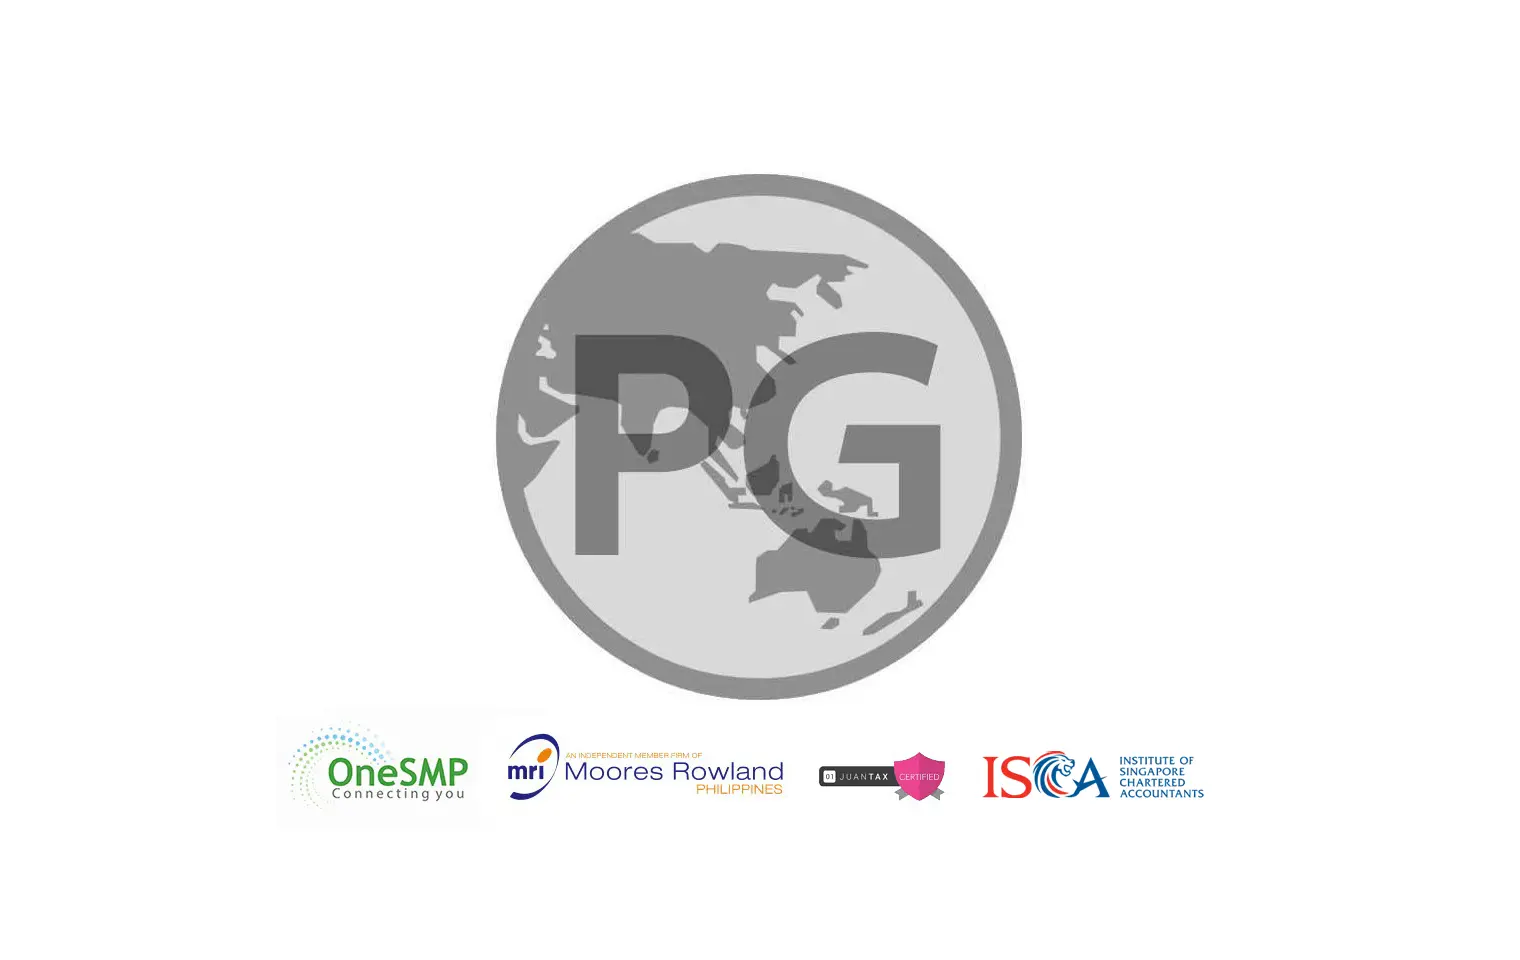
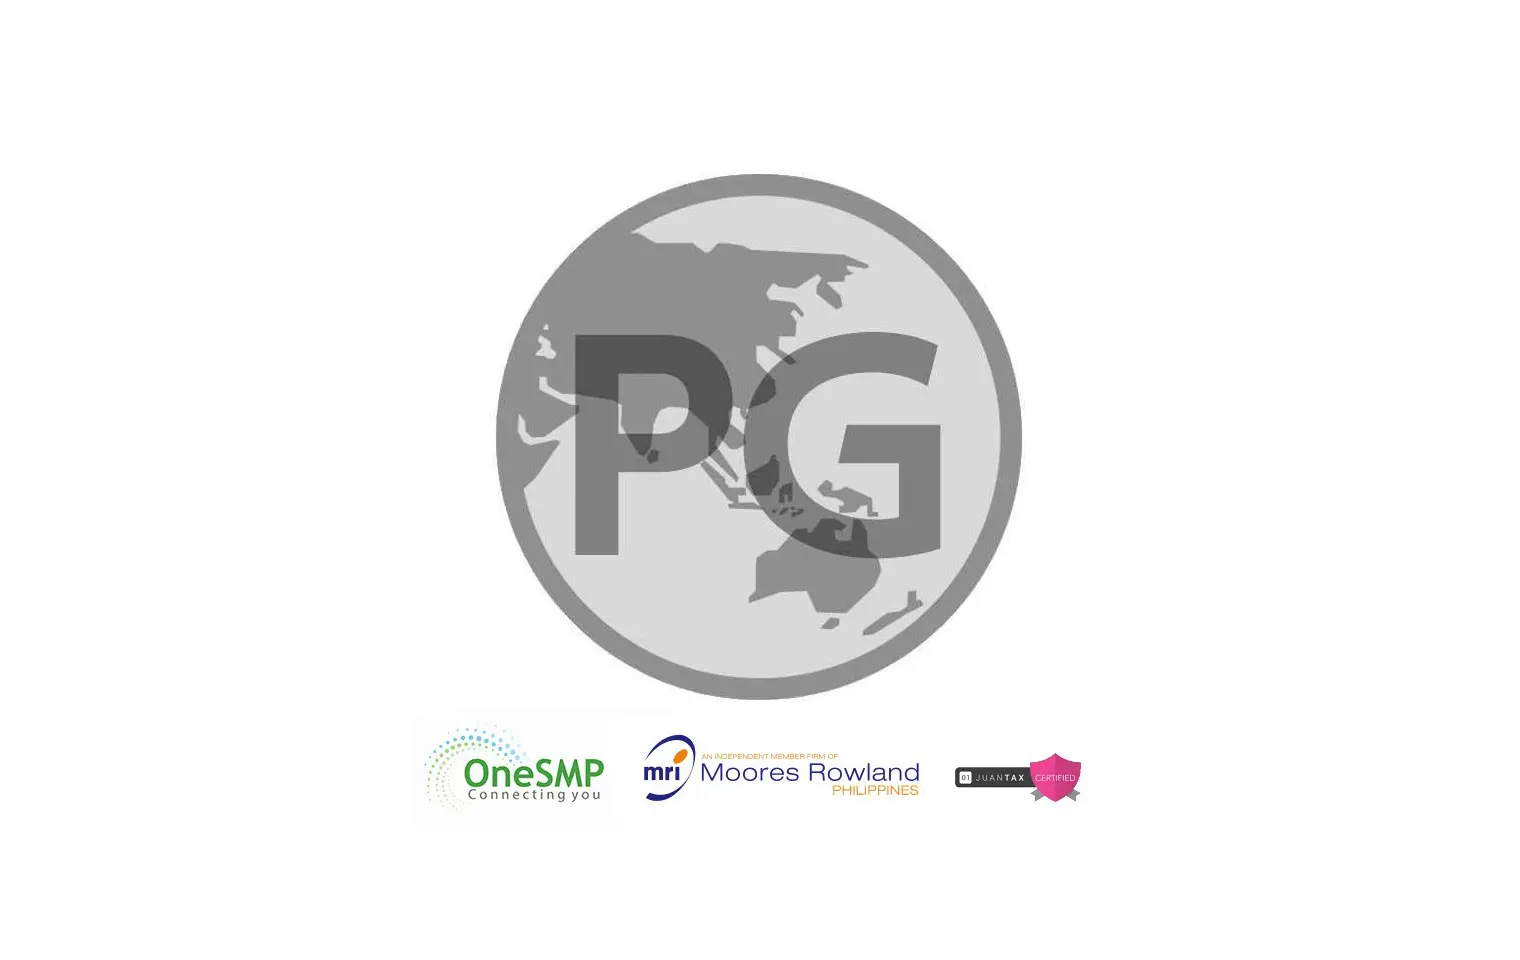
Add files via upload

Changed region(s): [[0.1855, 0.75, 0.8039, 0.8438]]

diff --git a/index.html b/index.html
@@ -109,7 +109,7 @@
                 <h1 class="mbr-section-title mbr-fonts-style mb-3 display-2"><strong>We are Pojol and Gabay, </strong><br><strong>Certified Public Accountants</strong></h1>
                 <h2 class="mbr-section-subtitle mbr-fonts-style mb-3 display-7"><strong>Professional Guidance is our Personal Guarantee</strong><br></h2>
                 <p class="mbr-text mbr-fonts-style mb-3 display-4">
-                    Founded as M. Pojol Audit and Tax Consultancy Services in 2018, <strong>Pojol and Gabay, Certified Public Accountants</strong> is a full service accounting, audit and tax firm located in Caloocan City (North), in the northernmost area of Metro Manila (National Capital Region), in the Philippines, and is a duly registered general professional partnership of Filipino Certified Public Accountants duly accredited by the Professional Regulatory Board of Accountancy (Philippines). <br><br>We are an <em>independent member</em> of <strong>OneSMP</strong>, a network of business consultants and professional firms in the ASEAN region, and <strong>Moores Rowland Philippines</strong>, network of Filipino accounting professionals and consultants, and a <em>corporate member</em> of the <strong>Institute of Singapore Chartered Accountants</strong>. We are also a <em>partner</em> of <strong>JuanTax</strong>, the Philippine's first online tax platform solution.<br></p>
+                    Founded as M. Pojol Audit and Tax Consultancy Services in 2018, <strong>Pojol and Gabay, Certified Public Accountants</strong> is a full service accounting, audit and tax firm located in Caloocan City (North), in the northernmost area of Metro Manila (National Capital Region), in the Philippines, and is a duly registered general professional partnership of Filipino Certified Public Accountants duly accredited by the Professional Regulatory Board of Accountancy (Philippines). <br><br>We are an <em>independent member</em> of <strong>OneSMP</strong>, a network of business consultants and professional firms in the ASEAN region, and <strong>Moores Rowland Philippines</strong>, network of Filipino accounting professionals and consultants.&nbsp;We are also a <em>partner</em> of <strong>JuanTax</strong>, the Philippine's first online tax platform solution.<br></p>
                 <div class="mbr-section-btn mt-3"><a class="btn btn-black display-4" href="index.html#services">Learn more about our services</a>  <a class="btn btn-black display-4" href="https://facebook.com/mpojol" target="_blank">Follow us on Facebook</a> <a class="btn btn-black display-4" href="https://www.linkedin.com/company/14527372" target="_blank">Follow us on LinkedIn</a></div>
                 
             </div>
@@ -144,11 +144,11 @@
     <div class="container">
         <div class="row justify-content-center">
             <div class="col-12 col-md-8">
-                <div class="carousel slide carousel-fade" id="ugBCYtyCVP" data-ride="carousel" data-bs-ride="carousel" data-interval="6000" data-bs-interval="6000">
+                <div class="carousel slide carousel-fade" id="uhyHuHk7Nv" data-ride="carousel" data-bs-ride="carousel" data-interval="6000" data-bs-interval="6000">
                     <div class="mbr-overlay" style="opacity: 0.5; background-color: rgb(255, 255, 255);">
                     </div>
                     <ol class="carousel-indicators">
-                        <li data-slide-to="0" data-bs-slide-to="0" class="active" data-target="#ugBCYtyCVP" data-bs-target="#ugBCYtyCVP"></li><li data-slide-to="1" data-bs-slide-to="1" class="" data-target="#ugBCYtyCVP" data-bs-target="#ugBCYtyCVP"></li><li data-slide-to="2" data-bs-slide-to="2" class="" data-target="#ugBCYtyCVP" data-bs-target="#ugBCYtyCVP"></li><li data-slide-to="3" data-bs-slide-to="3" class="" data-target="#ugBCYtyCVP" data-bs-target="#ugBCYtyCVP"></li><li data-slide-to="4" data-bs-slide-to="4" class="" data-target="#ugBCYtyCVP" data-bs-target="#ugBCYtyCVP"></li><li data-slide-to="5" data-bs-slide-to="5" class="" data-target="#ugBCYtyCVP" data-bs-target="#ugBCYtyCVP"></li><li data-slide-to="6" data-bs-slide-to="6" class="" data-target="#ugBCYtyCVP" data-bs-target="#ugBCYtyCVP"></li><li data-slide-to="7" data-bs-slide-to="7" class="" data-target="#ugBCYtyCVP" data-bs-target="#ugBCYtyCVP"></li><li data-slide-to="8" data-bs-slide-to="8" class="" data-target="#ugBCYtyCVP" data-bs-target="#ugBCYtyCVP"></li><li data-slide-to="9" data-bs-slide-to="9" class="" data-target="#ugBCYtyCVP" data-bs-target="#ugBCYtyCVP"></li>
+                        <li data-slide-to="0" data-bs-slide-to="0" class="active" data-target="#uhyHuHk7Nv" data-bs-target="#uhyHuHk7Nv"></li><li data-slide-to="1" data-bs-slide-to="1" class="" data-target="#uhyHuHk7Nv" data-bs-target="#uhyHuHk7Nv"></li><li data-slide-to="2" data-bs-slide-to="2" class="" data-target="#uhyHuHk7Nv" data-bs-target="#uhyHuHk7Nv"></li><li data-slide-to="3" data-bs-slide-to="3" class="" data-target="#uhyHuHk7Nv" data-bs-target="#uhyHuHk7Nv"></li><li data-slide-to="4" data-bs-slide-to="4" class="" data-target="#uhyHuHk7Nv" data-bs-target="#uhyHuHk7Nv"></li><li data-slide-to="5" data-bs-slide-to="5" class="" data-target="#uhyHuHk7Nv" data-bs-target="#uhyHuHk7Nv"></li><li data-slide-to="6" data-bs-slide-to="6" class="" data-target="#uhyHuHk7Nv" data-bs-target="#uhyHuHk7Nv"></li><li data-slide-to="7" data-bs-slide-to="7" class="" data-target="#uhyHuHk7Nv" data-bs-target="#uhyHuHk7Nv"></li><li data-slide-to="8" data-bs-slide-to="8" class="" data-target="#uhyHuHk7Nv" data-bs-target="#uhyHuHk7Nv"></li><li data-slide-to="9" data-bs-slide-to="9" class="" data-target="#uhyHuHk7Nv" data-bs-target="#uhyHuHk7Nv"></li>
                         
                         
                     </ol>
@@ -207,11 +207,11 @@
                             </div>
                         </div>
                     </div>
-                    <a class="carousel-control carousel-control-prev" role="button" data-slide="prev" data-bs-slide="prev" href="#ugBCYtyCVP">
+                    <a class="carousel-control carousel-control-prev" role="button" data-slide="prev" data-bs-slide="prev" href="#uhyHuHk7Nv">
                         <span class="mobi-mbri mobi-mbri-arrow-prev" aria-hidden="true"></span>
                         <span class="sr-only visually-hidden">Previous</span>
                     </a>
-                    <a class="carousel-control carousel-control-next" role="button" data-slide="next" data-bs-slide="next" href="#ugBCYtyCVP">
+                    <a class="carousel-control carousel-control-next" role="button" data-slide="next" data-bs-slide="next" href="#uhyHuHk7Nv">
                         <span class="mobi-mbri mobi-mbri-arrow-next" aria-hidden="true"></span>
                         <span class="sr-only visually-hidden">Next</span>
                     </a>
@@ -460,10 +460,8 @@
                         <img src="assets/images/onesmp-logo-cropped-279x148.webp" alt="">
                     </div>
                     <div class="card-box align-center">
-                        <h6 class="card-subtitle mbr-fonts-style mb-0 display-4">
-                         Our ASEAN Affiliation</h6>
-                        <h5 class="card-title mbr-fonts-style mb-3 display-7">
-                            <strong>OneSMP LLP</strong></h5>
+                        
+                        
                         <p class="mbr-text mbr-fonts-style mb-4 display-4">
                             OneSMP LLP is a strong community and network of business advisors,&nbsp;trusted advisors, public accountants, tax experts, business consultants and professional firms in the ASEAN region. <br><br>To learn more, you may visit <a href="https://www.onesmp.com/" target="_blank">onesmp.com</a></p>
                         
@@ -476,10 +474,8 @@
                         <img src="assets/images/index-225x200.webp" alt="">
                     </div>
                     <div class="card-box align-center">
-                        <h6 class="card-subtitle mbr-fonts-style mb-0 display-4">
-                            Our Philippine Affiliation</h6>
-                        <h5 class="card-title mbr-fonts-style mb-3 display-7">
-                            <strong>Moores Rowland Philippines</strong></h5>
+                        
+                        
                         <p class="mbr-text mbr-fonts-style mb-4 display-4"><a href="https://www.facebook.com/MooresRowlandPhilippines/" target="_blank">Moores Rowland Philippines</a> is a network of Filipino accounting professionals and consultants with a common  vision to be the next big thing in the Philippines and with the mission of building a group of extraordinary professionals of the future.</p>
                         
                     </div>
@@ -491,10 +487,8 @@
                         <img src="assets/images/261505468-2089153464567784-9115088790115856745-n-280x122.webp" alt="">
                     </div>
                     <div class="card-box align-center">
-                        <h6 class="card-subtitle mbr-fonts-style mb-0 display-4">
-                            Our Platform</h6>
-                        <h5 class="card-title mbr-fonts-style mb-3 display-7">
-                            <strong>JuanTax</strong></h5>
+                        
+                        
                         <p class="mbr-text mbr-fonts-style mb-4 display-4">We use <a href="http://www.juan.tax" target="_blank">JuanTax</a>&nbsp;in handling the tax compliance of our clients. JuanTax is the Philippine's first online tax platform solution accredited by the Bureau of Internal Revenue's Electronic Electronic Tax Software Provider Certification (BIR eTSPCert) system.<br></p>
                         
                     </div>
@@ -503,15 +497,12 @@
             <div class="card col-12 col-md-6 col-lg-3">
                 <div class="card-wrapper">
                     <div class="img-wrapper">
-                        <img src="assets/images/isca-logo-280x60.webp" alt="">
+                        <img src="assets/images/unnamed-280x154.webp" alt="">
                     </div>
                     <div class="card-box align-center">
-                        <h6 class="card-subtitle mbr-fonts-style mb-0 display-4">
-                            Corporate Membership</h6>
-                        <h5 class="card-title mbr-fonts-style mb-3 display-7">
-                            <strong>Institute of Singapore Chartered Accountants</strong></h5>
-                        <p class="mbr-text mbr-fonts-style mb-4 display-4">
-                            Our firm is a proud&nbsp;<a href="https://isca.org.sg/membership/become-a-member/corporate-membership/corporate-members-listings" target="_blank" style="">corporate member</a> of the Institute of Singapore Chartered Accountants.</p>
+                        
+                        
+                        <p class="mbr-text mbr-fonts-style mb-4 display-4"></p>
                         
                     </div>
                 </div>
@@ -561,7 +552,7 @@
     </div>
 </section>
 
-<section data-bs-version="5.1" class="footer7 cid-sMF2zOWUhk" once="footers" id="footer">
+<section data-bs-version="5.1" class="footer7 cid-sMF2zOWUhk mbr-reveal" once="footers" id="footer">
 
     
 
